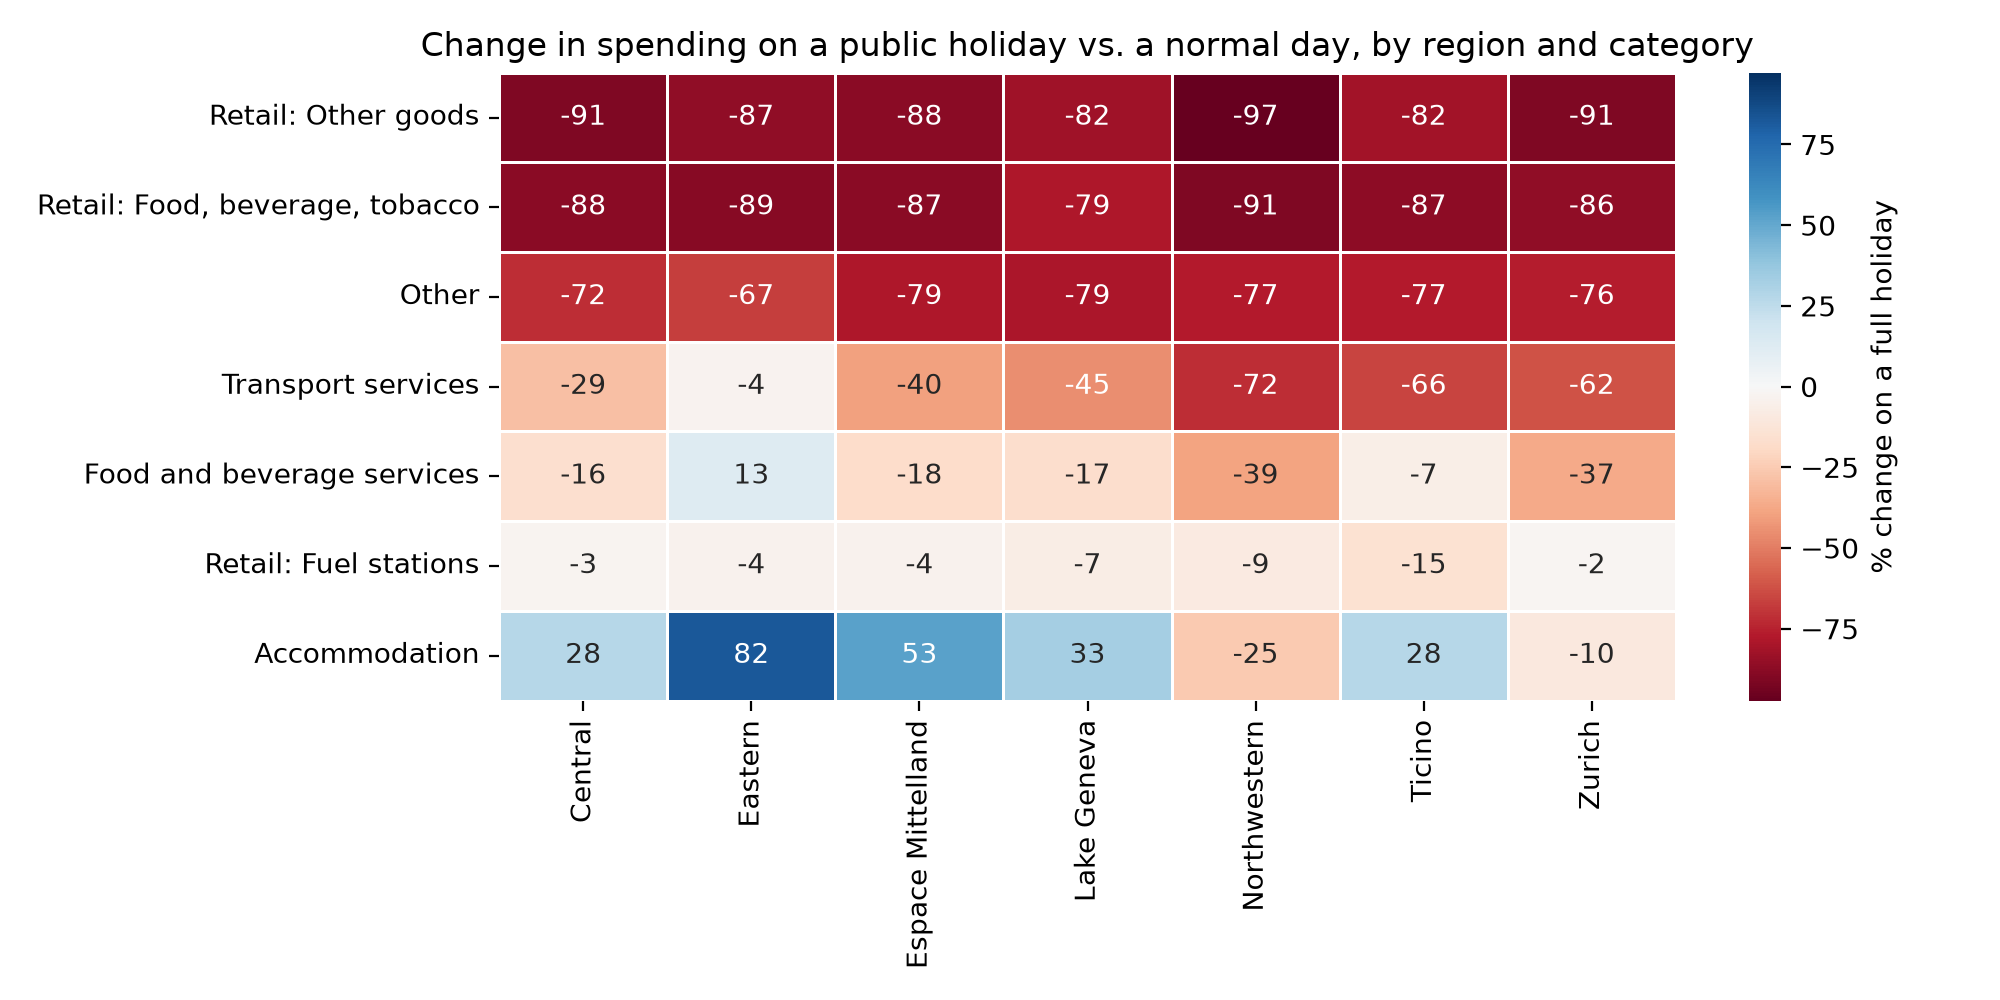
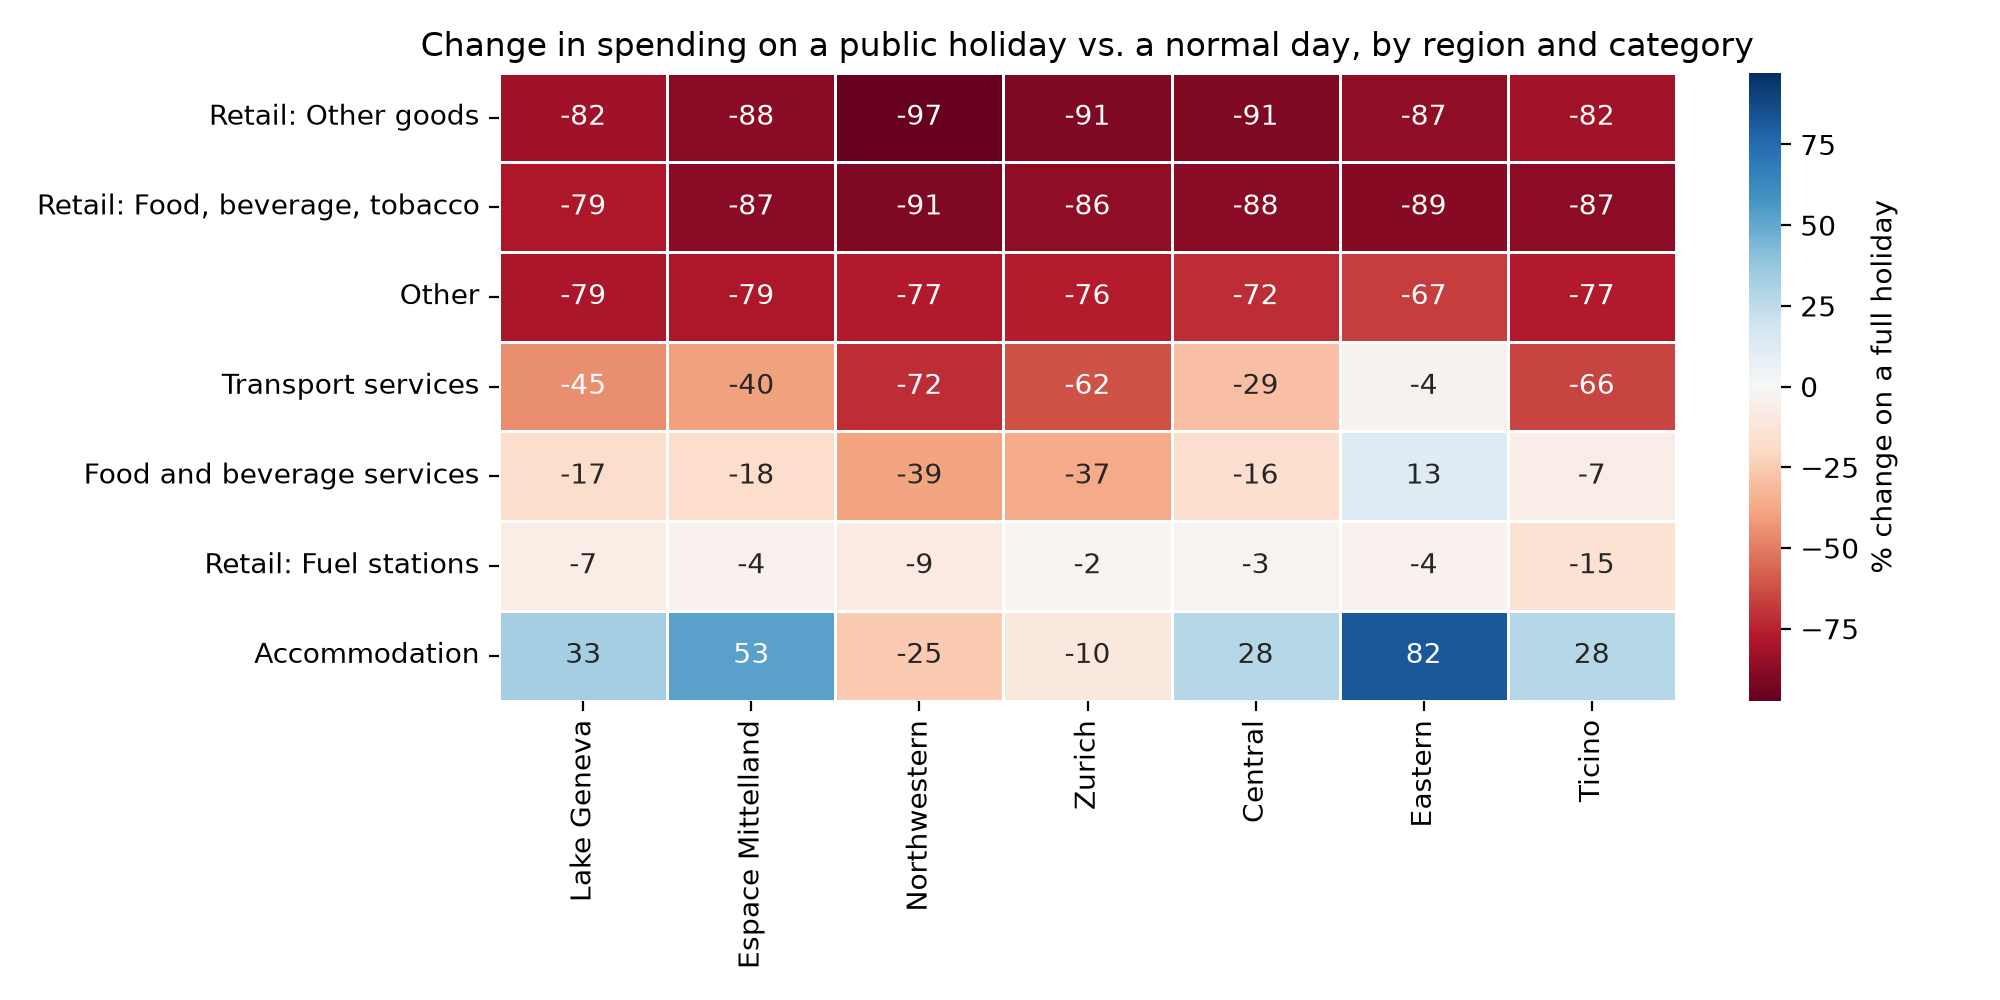
analysis docs, rename tables, remove unused safeguards, comment main and config

diff --git a/scripts/analysis/calendar_regression.py b/scripts/analysis/calendar_regression.py
@@ -1,7 +1,51 @@
-"""How much of the daily variation in spending is explained by calendar effects?
+"""Analysis Q2 - how much of the daily variation in spending do calendar effects explain?
 
-Method (one regression per merchant category, ordinary least squares):
-    log_spending ~ region + weekday + month + year + COVID + holiday_share"""
+1. Introduction
+
+Answers the first part of Q2 with linear regressions (OLS), one per merchant
+category: log_spending ~ region + weekday + month + year + COVID + holiday_share
+and estimates the holiday effect (all holidays, national and regional).
+
+2. Data
+
+------------------------------------------------------------------------------
+| Input                        | Output                                       |
+|------------------------------|----------------------------------------------|
+| data/processed/df_q2.parquet | results/tables/r2_by_category.csv            |
+|                              | results/tables/holiday_effect_all.csv        |
+|                              | results/tables/holiday_effect_by_region.csv  |
+|                              | results/figures/r2_by_category.png           |
+|                              | results/figures/holiday_heatmap.png          |
+------------------------------------------------------------------------------
+
+3. Script description
+
+1. Read df_q2 and add a COVID flag (config.COVID_PERIOD).
+2. Explained variation: per category, add the variable groups one by one
+   (region, weekday, month, year, COVID, holiday) and store the R² after
+   each step. The increase in R² is the part explained by that group.
+   Region is added first and only removes the level differences between
+   regions; the shares are expressed as % of the remaining (within-region)
+   variation.
+3. Holiday effect per category: full model with all groups; the
+   coefficient of holiday_share is converted to a % change.
+4. Holiday effect per region x category: same model without region,
+   estimated separately for each region and category -> heatmap.
+
+4. Notes
+
+- holiday_share goes from 0 (normal day) to 1 (whole region off), so its
+  coefficient is the effect of a full holiday. Log points are converted to
+  % change with (exp(b) - 1) * 100.
+- Weekday, month and year are categorical (one dummy per value), so no
+  shape (e.g. linear trend) is assumed.
+- COVID is flagged and controlled for instead of deleted.
+- Robust standard errors (HC1) are used for the holiday effects, because
+  the variance of spending is not the same on all days.
+- The R² shares depend on the order in which the groups are added: a group
+  added earlier also gets the variation it shares with later groups
+  (e.g. year and COVID).
+"""
 
 import matplotlib.pyplot as plt
 import numpy as np
@@ -10,6 +54,8 @@ import seaborn as sns
 import statsmodels.formula.api as smf
 from scripts import config
 
+# variable groups in the order they are added to the model;
+# C(...) = treat as categorical (one dummy per value)
 STEPS = {
     "region": "C(region)",
     "weekday": "C(weekday)",
@@ -30,12 +76,8 @@ def add_covid_flag(df: pd.DataFrame) -> pd.DataFrame:
 
 
 def load_df() -> pd.DataFrame:
-    """Read df_q2, remove days without a log value (spending 0) if any, add the COVID flag."""
+    """Read df_q2 and add the COVID flag."""
     df = pd.read_parquet(config.DF_Q2)
-    n_missing = df[config.TARGET].isna().sum()
-    print(f"Days without log value: {n_missing}")
-    if n_missing > 0:
-        df = df.dropna(subset=[config.TARGET]).copy()
     return add_covid_flag(df)
 
 # ======================= 1. explained variation =======================
@@ -48,18 +90,21 @@ def r2_groups(cat_df: pd.DataFrame) -> dict:
         parts.append(part)
         formula = f"{config.TARGET} ~ " + " + ".join(parts)
         r2[group] = smf.ols(formula, data=cat_df).fit().rsquared
-    return r2
+    return r2     # cumulative R²
 
 
 def within_region_shares(r2: dict) -> dict:
     """Turn cumulative R² into the share of within-region variation each group explains."""
     r2_region = r2["region"]
+    # variation that is left after removing the region level differences
     within_total = 1 - r2_region
     shares = {}
     previous = r2_region
-    for step in list(STEPS)[1:]:
+    for step in list(STEPS)[1:]:     # all groups except region
+        # increase in R² by this group, as share of the within-region variation
         shares[step] = (r2[step] - previous) / within_total
         previous = r2[step]
+    # rest = not explained by any calendar group
     shares["not explained"] = 1 - (previous - r2_region) / within_total
     return shares
 
@@ -69,6 +114,7 @@ def explained_variation(df: pd.DataFrame) -> pd.DataFrame:
     rows = {}
     for category, cat_df in df.groupby("category", observed=True):
         rows[category] = within_region_shares(r2_groups(cat_df))
+    # .T: categories as rows, groups as columns
     return pd.DataFrame(rows).T.round(3)
 
 
@@ -92,13 +138,14 @@ def holiday_effect(model) -> dict:
     """Coefficient of holiday_share as % change, with 95% confidence interval."""
     b = model.params["holiday_share"]
     low, high = model.conf_int().loc["holiday_share"]
-    to_pct = lambda x: (np.exp(x) - 1) * 100  # log points -> % change
+    to_pct = lambda x: (np.exp(x) - 1) * 100     # log points -> % change
     return {"effect_pct": to_pct(b), "ci_low": to_pct(low), "ci_high": to_pct(high),
             "p_value": model.pvalues["holiday_share"], "n_obs": int(model.nobs)}
 
 
 def full_formula(with_region: bool = True) -> str:
     """Formula with all variable groups (optionally without region)."""
+    # without region: used when the model is fitted for one region only
     parts = list(STEPS.values()) if with_region else list(STEPS.values())[1:]
     return f"{config.TARGET} ~ " + " + ".join(parts)
 
@@ -146,17 +193,20 @@ def run() -> None:
     config.TABLES_DIR.mkdir(parents=True, exist_ok=True)
     df = load_df()
 
+    # 1. explained variation
     shares = explained_variation(df)
     shares.to_csv(config.TABLES_DIR / "r2_by_category.csv")
     plot_r2(shares)
     print("Share of within-region variation explained:\n", shares, "\n")
 
+    # 2. holiday effect per category
     effects = holiday_effect_by_category(df)
     effects.to_csv(config.TABLES_DIR / "holiday_effect_all.csv")
     print("Holiday effect per category (% change on a full holiday):\n", effects, "\n")
 
+    # 3. holiday effect per region x category
     region_effects = holiday_effect_by_region(df)
-    region_effects.to_csv(config.TABLES_DIR / "holiday_effect_region.csv", index=False)
+    region_effects.to_csv(config.TABLES_DIR / "holiday_effect_by_region.csv", index=False)
     plot_heatmap(region_effects)
     print(f"Tables saved to {config.TABLES_DIR}, figures to {config.FIGURES_DIR}")
 

diff --git a/scripts/analysis/regional_holiday_effect.py b/scripts/analysis/regional_holiday_effect.py
@@ -1,5 +1,43 @@
-"""How does a regional holiday change spending, compared with regions where the
-same date is a normal working day?"""
+"""Analysis Q2 - effect of a regional holiday on spending, compared with regions where the
+same date is a normal working day.
+
+1. Introduction
+
+Answers the second part of Q2. Per merchant category, a panel regression
+with region and date fixed effects: log_spending ~ holiday_share + region effect + date effect
+The date effect compares the regions with each other on the same day.
+Everything that affects all regions equally on that day (weekday, season,
+COVID, national holidays, weather, ...) cancels out. The holiday effect
+is therefore measured only on days when some regions have a holiday and
+others do not.
+
+2. Data
+
+-------------------------------------------------------------------------------------------
+| Input                                  | Output                                          |
+|----------------------------------------|-------------------------------------------------|
+| data/processed/df_q2.parquet           | results/tables/holiday_effect_regional_only.csv |
+| results/tables/holiday_effect_all.csv  | results/figures/holiday_effects.png             |
+-------------------------------------------------------------------------------------------
+
+3. Script description
+
+1. Read df_q2 and convert region to text (the panel index cannot use a
+   categorical column).
+2. Per category: panel regression (PanelOLS) with region and date effects.
+3. Convert the holiday_share coefficient to a % change with 95% confidence
+   interval.
+4. Save the table and draw a coefficient plot comparing both estimates:
+   all holidays (calendar model) vs. regional holidays only.
+
+4. Notes
+
+- holiday_share goes from 0 to 1, so the coefficient is the effect of a full
+  holiday (whole region off). % change = (exp(b) - 1) * 100.
+- Standard errors: cov_type="kernel" (Driscoll-Kraay), robust to correlation
+  between regions on the same day and over time.
+- Only 7 regions: the estimate relies on relatively few regional holidays.
+"""
 
 import matplotlib.pyplot as plt
 import numpy as np
@@ -9,10 +47,10 @@ from scripts import config
 
 
 def load_df() -> pd.DataFrame:
-    """Read df_q2 and drop days without a log value (spending 0)."""
+    """Read df_q2 and prepare the region column for the panel index."""
     df = pd.read_parquet(config.DF_Q2)
     df = df.dropna(subset=[config.TARGET]).copy()
-    df["region"] = df["region"].astype(str)     # panel index needs plain text, not category
+    df["region"] = df["region"].astype(str)
     return df
 
 
@@ -21,8 +59,8 @@ def fit_category(cat_df: pd.DataFrame):
     # PanelOLS needs a two-level index: (entity, time) = (region, date)
     panel = cat_df.set_index(["region", "date"])
     model = PanelOLS(panel[config.TARGET], panel[["holiday_share"]],
-                     entity_effects=True,     # region effect
-                     time_effects=True)       # date effect
+                     entity_effects=True,     # region effect: level differences between regions
+                     time_effects=True)       # date effect: : everything common to all regions on a day
     return model.fit(cov_type="kernel")
 
 
@@ -40,6 +78,7 @@ def regional_effect_by_category(df: pd.DataFrame) -> pd.DataFrame:
     rows = {}
     for category, cat_df in df.groupby("category", observed=True):
         rows[category] = holiday_effect(fit_category(cat_df))
+    # .T: categories as rows
     return pd.DataFrame(rows).T.round(3).sort_values("effect_pct")
 
 
@@ -48,13 +87,15 @@ def plot_effects(regional: pd.DataFrame, all_holidays: pd.DataFrame) -> None:
     order = regional.index
     y = np.arange(len(order))
     fig, ax = plt.subplots(figsize=(9, 5))
+    # shift: the two estimates are drawn slightly above/below each other
     for table, label, shift, color in [(all_holidays, "All holidays (calendar model)", 0.15, "#4C72B0"),
                                        (regional, "Regional holidays only (same-date comparison)", -0.15, "#C44E52")]:
         t = table.loc[order]
+        # error bar = distance from the estimate to the lower/upper CI bound
         errors = [t["effect_pct"] - t["ci_low"], t["ci_high"] - t["effect_pct"]]
         ax.errorbar(t["effect_pct"], y + shift, xerr=errors, fmt="o", capsize=3,
                     color=color, label=label)
-    ax.axvline(0, color="grey", linewidth=1)
+    ax.axvline(0, color="grey", linewidth=1)     # 0 = no effect
     ax.set_yticks(y, order)
     ax.set_xlabel("% change in spending on a full holiday (95% confidence interval)")
     ax.set_title("Effect of a public holiday on spending by merchant category")
@@ -70,9 +111,10 @@ def run() -> None:
     config.TABLES_DIR.mkdir(parents=True, exist_ok=True)
 
     regional = regional_effect_by_category(load_df())
-    regional.to_csv(config.TABLES_DIR / "holiday_effect_regional.csv")
+    regional.to_csv(config.TABLES_DIR / "holiday_effect_regional_only.csv")
     print("Regional holiday effect per category (% change on a full holiday):\n", regional)
 
+    # estimate from calendar_regression.py, for the comparison in the plot
     all_holidays = pd.read_csv(config.TABLES_DIR / "holiday_effect_all.csv", index_col=0)
     plot_effects(regional, all_holidays)
     print(f"Figure saved to {config.FIGURES_DIR / 'holiday_effects.png'}")

diff --git a/scripts/analysis/calendar_index.py b/scripts/analysis/calendar_index.py
@@ -1,4 +1,40 @@
-"""Describe how spending varies by weekday and month, per merchant category."""
+"""Analysis Q2 - descriptive spending index by weekday and month.
+
+1. Introduction
+
+Descriptive overview of the calendar pattern in spending: for each
+merchant category, how spending on each weekday and in each month
+compares with the category's overall average.
+
+2. Data
+
+-----------------------------------------------------------------------------
+| Input                        | Output                                      |
+|------------------------------|---------------------------------------------|
+| data/processed/df_q2.parquet | results/tables/weekday_index.csv            |
+|                              | results/tables/month_index.csv              |
+|                              | results/figures/spending_index_weekday.png  |
+|                              | results/figures/spending_index_month.png    |
+-----------------------------------------------------------------------------
+
+3. Script description
+
+1. Sum the 7 regions per date and category -> one Swiss value per day.
+2. Average spending per category and weekday/month.
+3. Divide by the average over all weekdays/months of that category and
+   multiply by 100 -> index (100 = average).
+4. Save the tables and draw one heatmap each (category x weekday,
+   category x month).
+
+4. Notes
+
+- The spending values are scaled, not CHF, so only relative values are compared.
+- Indexing per category makes categories with very different spending
+  levels comparable in one figure.
+- Simple averages over all days: holidays and the COVID period are included, so
+  the weekday and month values partly reflect these other effects. They are
+  separated in the regression (calendar_regression.py).
+"""
 
 import matplotlib.pyplot as plt
 import pandas as pd
@@ -11,6 +47,7 @@ MONTH_LABELS = ["Jan", "Feb", "Mar", "Apr", "May", "Jun",
 
 def swiss_daily_total(df: pd.DataFrame) -> pd.DataFrame:
     """Sum the seven regions -> one national value per date and category."""
+    # weekday and month are in the groupby only to keep them as columns
     return (df.groupby(["date", "category", "weekday", "month"], observed=True, as_index=False)
               ["spending"].sum())
 
@@ -25,6 +62,8 @@ def _plot_heatmap(index: pd.DataFrame, title: str, filename: str, cell_width: fl
     """Heatmap of category x period."""
     n_rows, n_cols = index.shape
     fig, ax = plt.subplots(figsize=(3 + n_cols * cell_width, 1.5 + n_rows * 0.5))
+    # diverging colors centred on 100: blue = below average, red = above;
+    # fixed scale 0-200 so both heatmaps use the same colors
     sns.heatmap(index, ax=ax, annot=True, fmt=".0f", cmap="RdBu_r", center=100,
                 vmin=0, vmax=200, linewidths=0.5,
                 cbar_kws={"label": "Index (100 = average day)", "shrink": 0.8})

diff --git a/scripts/config.py b/scripts/config.py
@@ -90,7 +90,13 @@ WEEKDAYS = ["Monday", "Tuesday", "Wednesday", "Thursday", "Friday", "Saturday", 
 
 # ======================= analysis =======================
 TARGET = "log_spending"                      # dependent variable of the regressions
-# COVID-19 period, flagged instead of deleted: first lockdown to end of 2022
+
+# COVID-19 period, flagged instead of deleted (controlled for in the regression).
+# Defined from the weekly laboratory-confirmed SARS-CoV-2 cases reported to the
+# FOPH (BAG): weeks with more than 50 cases per 100,000 inhabitants, extended
+# slightly before and after, because consumer behaviour already changes before
+# measures start and needs time to return to normal afterwards.
+# Source: FOPH, https://www.idd.bag.admin.ch/en/diseases/covid/statistic
 COVID_PERIOD = [("2020-03-16", "2022-12-31")]
 
 

diff --git a/scripts/main.py b/scripts/main.py
@@ -7,14 +7,23 @@ from scripts.analysis import (plot_calendar_index, fit_calendar_regression,
 
 
 def main() -> None:
+    """Run all steps in order."""
     load_dotenv()
+
+    # 1. acquisition -> data/raw
     scrape_holidays()
     download_spending()
+
+    # 2. cleaning -> data/processed
     clean_holidays()
     clean_population()
     clean_spending()
+
+    # 3. integration -> data/processed
     holiday_share()
     build_df()
+
+    # 4. analysis -> results/tables, results/figures
     plot_calendar_index()
     fit_calendar_regression()
     fit_regional_holiday_effect()

diff --git a/scripts/integration/build_df.py b/scripts/integration/build_df.py
@@ -72,9 +72,7 @@ def add_calendar(df: pd.DataFrame) -> pd.DataFrame:
 
 def add_log_value(df: pd.DataFrame) -> pd.DataFrame:
     """Log of spending, so regression coefficients read as percentage changes."""
-    # safeguard: log is only defined for values > 0 (the data has no zero or
-    # negative spending
-    df["log_spending"] = np.log(df["spending"].where(df["spending"] > 0))
+    df["log_spending"] = np.log(df["spending"])
     return df
 
 

diff --git a/todo.md b/todo.md
@@ -39,12 +39,11 @@
 
 ## Analysis (Q2)
 - add COVID flag &rarr; ok
-- add map?
 - regression: log spending on holiday share, weekday, month, year, region,
   holiday &times; category interaction &rarr; ok
 - heatmap of holiday effect by region and category &rarr; ok
 - weekday / month plots &rarr; ok
 
 ## Documentation
-- methods: list cleaning steps and holiday choices (weights, class 4, threshold) &rarr; writing...
+- methods: list cleaning steps and holiday choices &rarr; writing...
 - README: my code contribution &rarr; open
